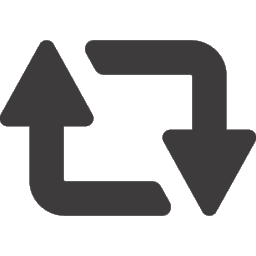
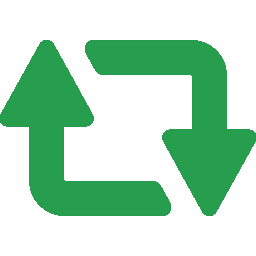
RT,いいねの数・アイコンの色修正

diff --git a/html/php-challenge/index.php b/html/php-challenge/index.php
@@ -133,10 +133,10 @@ $statement = $db->prepare('SELECT * FROM rt WHERE member_id=? AND post_id=?');
 $statement->execute(array(h($_SESSION['id']),h($post['id'])));
 $rt = (int)($statement->fetch()['rt_flg']);
 ?>
-<a href="rt.php?id=<?php echo h($post['id']); ?>" style="background:url(images/rt.png)"><img alt="retweet" src="images/rt<?php if ($rt === 1) { print 2; } ?>.png" style="height:16px; width:16px;"></a>
+<a href="rt.php?id=<?php echo h($post['id']); ?>"><img alt="retweet" src="images/rt<?php if ($rt === 1) { print 2; } ?>.png" style="height:16px; width:16px;"></a>
 
-<span style="color:<?php if($rt === 1) { print 2;} else { print '#999';} ?>">
-<?php // 当該ツイートの全ユーザーのいいね数を出力
+<span style="color:<?php if($rt === 1) { print "#3CB371";} else { print '#999';} ?>">
+<?php // 当該ツイートの全ユーザーのRT数を出力
 $statement = $db->prepare('SELECT SUM(rt_flg) FROM rt WHERE post_id=?');
 $statement->bindParam(1,$post['id'],PDO::PARAM_INT);
 $statement->execute();
@@ -151,14 +151,14 @@ if($rts > 0) {
 
 </p>
 <p style="font-size:15px; padding-left:7px;">
-<?php // いいねテーブル(favTBL)のログインユーザー情報の変数化
+<?php // favテーブルのログインユーザー情報の変数化
 $statement = $db->prepare('SELECT * FROM fav WHERE member_id=? AND post_id=?');
 $statement->execute(array(h($_SESSION['id']),h($post['id'])));
 $fav = (int)($statement->fetch()['fav_flg']);
 ?>
-<a href="fav.php?id=<?php echo h($post['id']); ?>" style="background:url(images/fav.png)"><img alt="fav" src="images/fav<?php if ($fav === 1) { print 2; } ?>.png" style="height:14px; width:14px;"></a>
+<a href="fav.php?id=<?php echo h($post['id']); ?>"><img alt="fav" src="images/fav<?php if ($fav === 1) { print 2; } ?>.png" style="height:14px; width:14px;"></a>
 
-<span style="color:<?php if($fav === 1) { print 2;} else { print '#999';} ?>">
+<span style="color:<?php if($fav === 1) { print 'red';} else { print '#999';} ?>">
 <?php
 // 当該ツイートの全ユーザーのいいね数を出力
 $statement = $db->prepare('SELECT SUM(fav_flg) FROM fav WHERE post_id=?');
